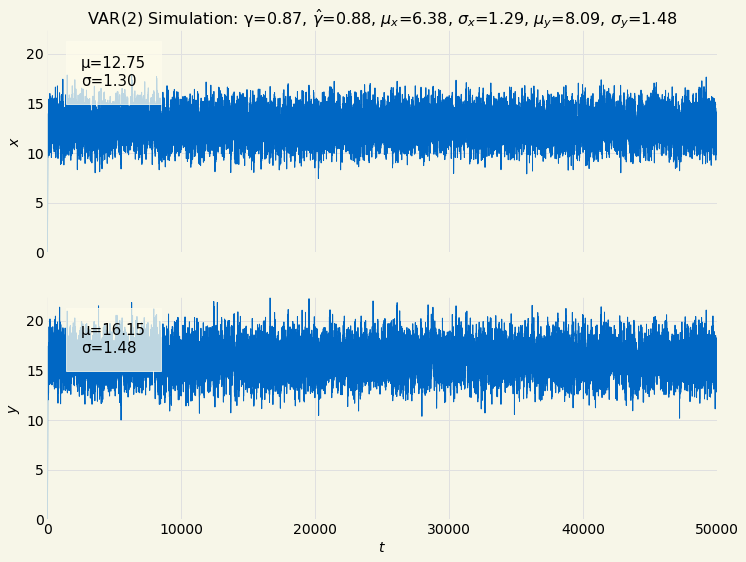
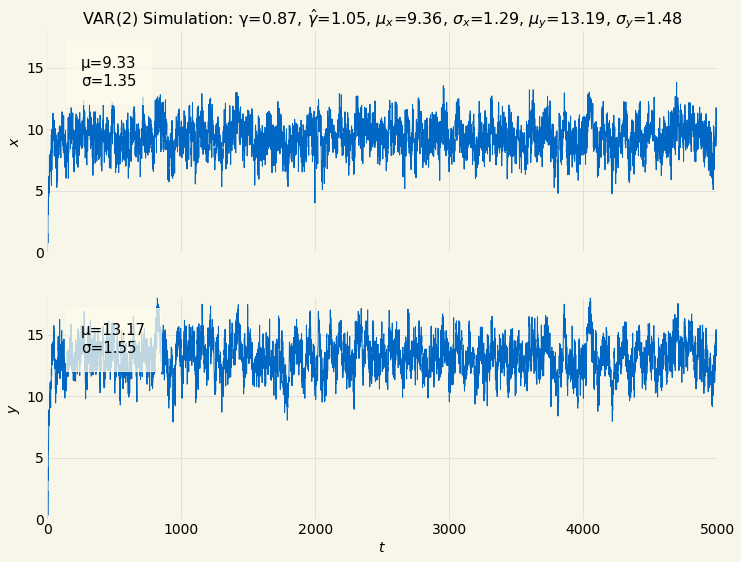
fixed bug in simulation with mean

diff --git a/hydrogen_notebooks/algorithmic_trading/mean_reversion/vector_autoregression_simulations.py b/hydrogen_notebooks/algorithmic_trading/mean_reversion/vector_autoregression_simulations.py
@@ -42,7 +42,7 @@ def var_simulate(x0, μ, φ, Ω, n):
     for i in range(l):
         xt[:,i] = x0[:,i]
     for i in range(l, n):
-        xt[:,i] = μ + ε[i]
+        xt[:,i] = ε[i]
         for j in range(l):
             t1 = φ[j]*numpy.matrix(xt[:,i-j-1]).T
             t2 = numpy.squeeze(numpy.array(t1), axis=1)
@@ -329,7 +329,7 @@ timeseries_plot(xt, ylabel, title, plot_name)
 
 # %%
 
-μ = [1.0, 1.0]
+μ = [1.0, 2.0]
 ω = numpy.matrix([[1.0, 0.0], [0.0, 1.0]])
 φ = numpy.array([
         numpy.matrix([[0.2, 0.1],
@@ -339,7 +339,7 @@ timeseries_plot(xt, ylabel, title, plot_name)
 ])
 eigen_values(φ)
 x0 = numpy.array([[0.0, 1.0], [0.0, 1.0]])
-n = 50000
+n = 5000
 xt = var_simulate(x0, μ, φ, ω, n)
 
 # %%
